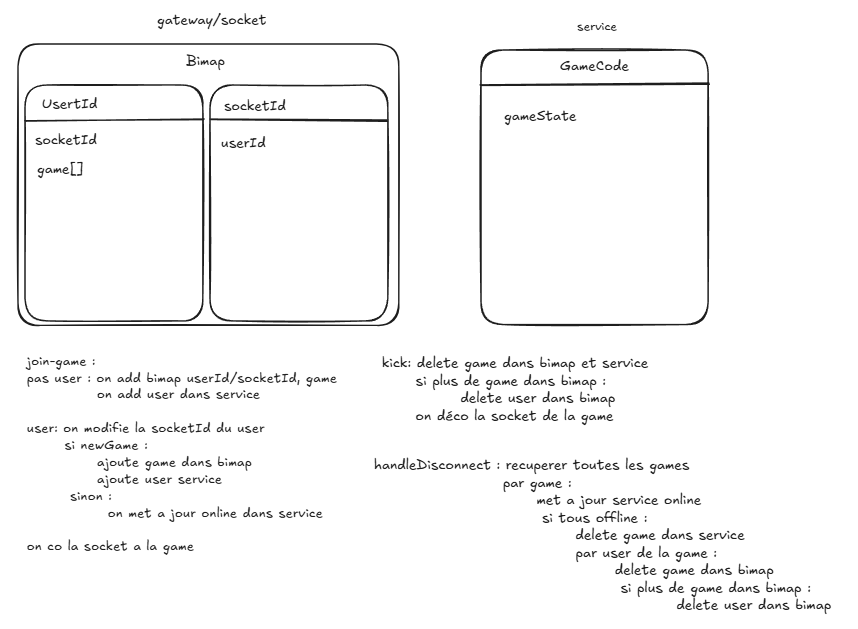
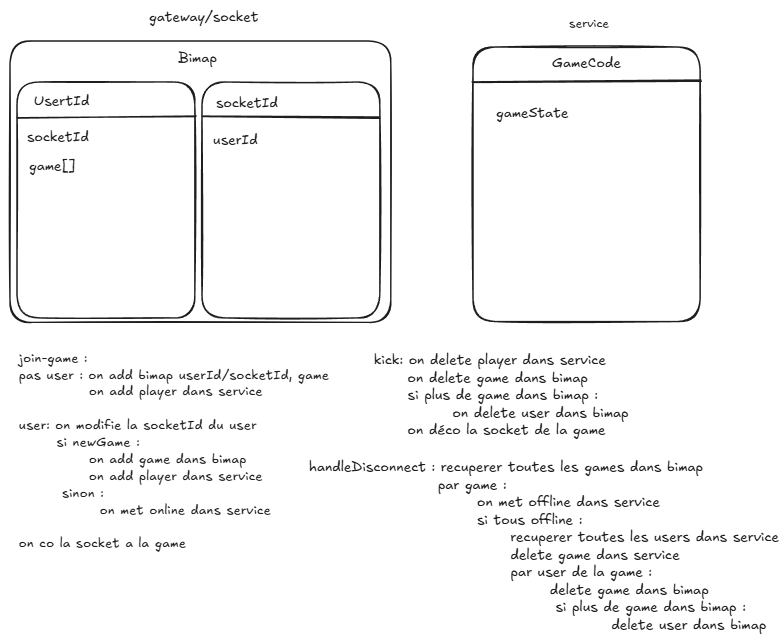
change handleDisconnect for new architecture

Changed region(s): [[0.0, 0.0, 0.8878, 0.876], [0.398, 0.6948, 1.0, 0.9968], [0.551, 0.0302, 0.9184, 0.5135]]

diff --git a/backend/src/game/game.gateway.ts b/backend/src/game/game.gateway.ts
@@ -26,12 +26,21 @@ export class GameGateway implements OnGatewayConnection, OnGatewayDisconnect {
 
   private biMap: BiMapUserSocket = new BiMapUserSocket();
 
-  handleConnection(socket: Socket): void {
-    console.log(`Client connected: ${socket.id}`);
-  }
+  handleConnection(socket: Socket): void {}
 
   handleDisconnect(socket: Socket): void {
-    console.log(`Client disconnected: ${socket.id}`);
+    const userId = this.biMap.getFromSocket(socket.id);
+    const games = this.biMap.getGameFromUser(userId);
+    for (const code in games) {
+      this.gameService.setOffline(code, userId);
+      if (this.gameService.isAllOffline(code)) {
+        const usersId = this.gameService.getUsersId(code);
+        this.gameService.removeGame(code);
+        for (const id in usersId) {
+          this.biMap.deleteGameFromUser(code, id);
+        }
+      }
+    }
   }
 
   @SubscribeMessage('join-game')
@@ -48,6 +57,11 @@ export class GameGateway implements OnGatewayConnection, OnGatewayDisconnect {
 
     this.gameService.createGame(code);
     if (this.biMap.hasUser(userId)) {
+      const oldSocketId = this.biMap.getFromUser(user).socketId;
+      const games = this.biMap.getGameFromUser(user);
+      for (const game in games) {
+        this.kick(oldSocketId, game);
+      }
       this.biMap.setSocketFromUser(userId, socket.id);
       if (this.biMap.hasGameFromUser(userId, code)) {
         this.gameService.setOnline(code, userId);
@@ -93,6 +107,14 @@ export class GameGateway implements OnGatewayConnection, OnGatewayDisconnect {
         this.gameService.handleEndOfRound(code);
         this.emitGameState(code);
       }, 2000);
+    }
+  }
+
+  async kick(socketId: string, code: string): Promise<void> {
+    const socket = this.server.sockets.sockets.get(socketId);
+    if (socket) {
+      await socket.leave(code);
+      socket.emit('kicked');
     }
   }
 

diff --git a/backend/src/game/game.service.ts b/backend/src/game/game.service.ts
@@ -56,6 +56,18 @@ export class GameService {
     if (player) player.online = false;
   }
 
+  isAllOffline(code: string): boolean {
+    const game: GameState = this.getGame(code);
+    if (!game) return false;
+    return game.players.filter((p) => p.online == true).length != 0;
+  }
+
+  getUsersId(code: string): string[] {
+    const game: GameState = this.getGame(code);
+    if (!game) return [];
+    return game.players.map((p) => p.id);
+  }
+
   startGame(code: string): void {
     const game: GameState = this.getGame(code);
     if (!game) return;
